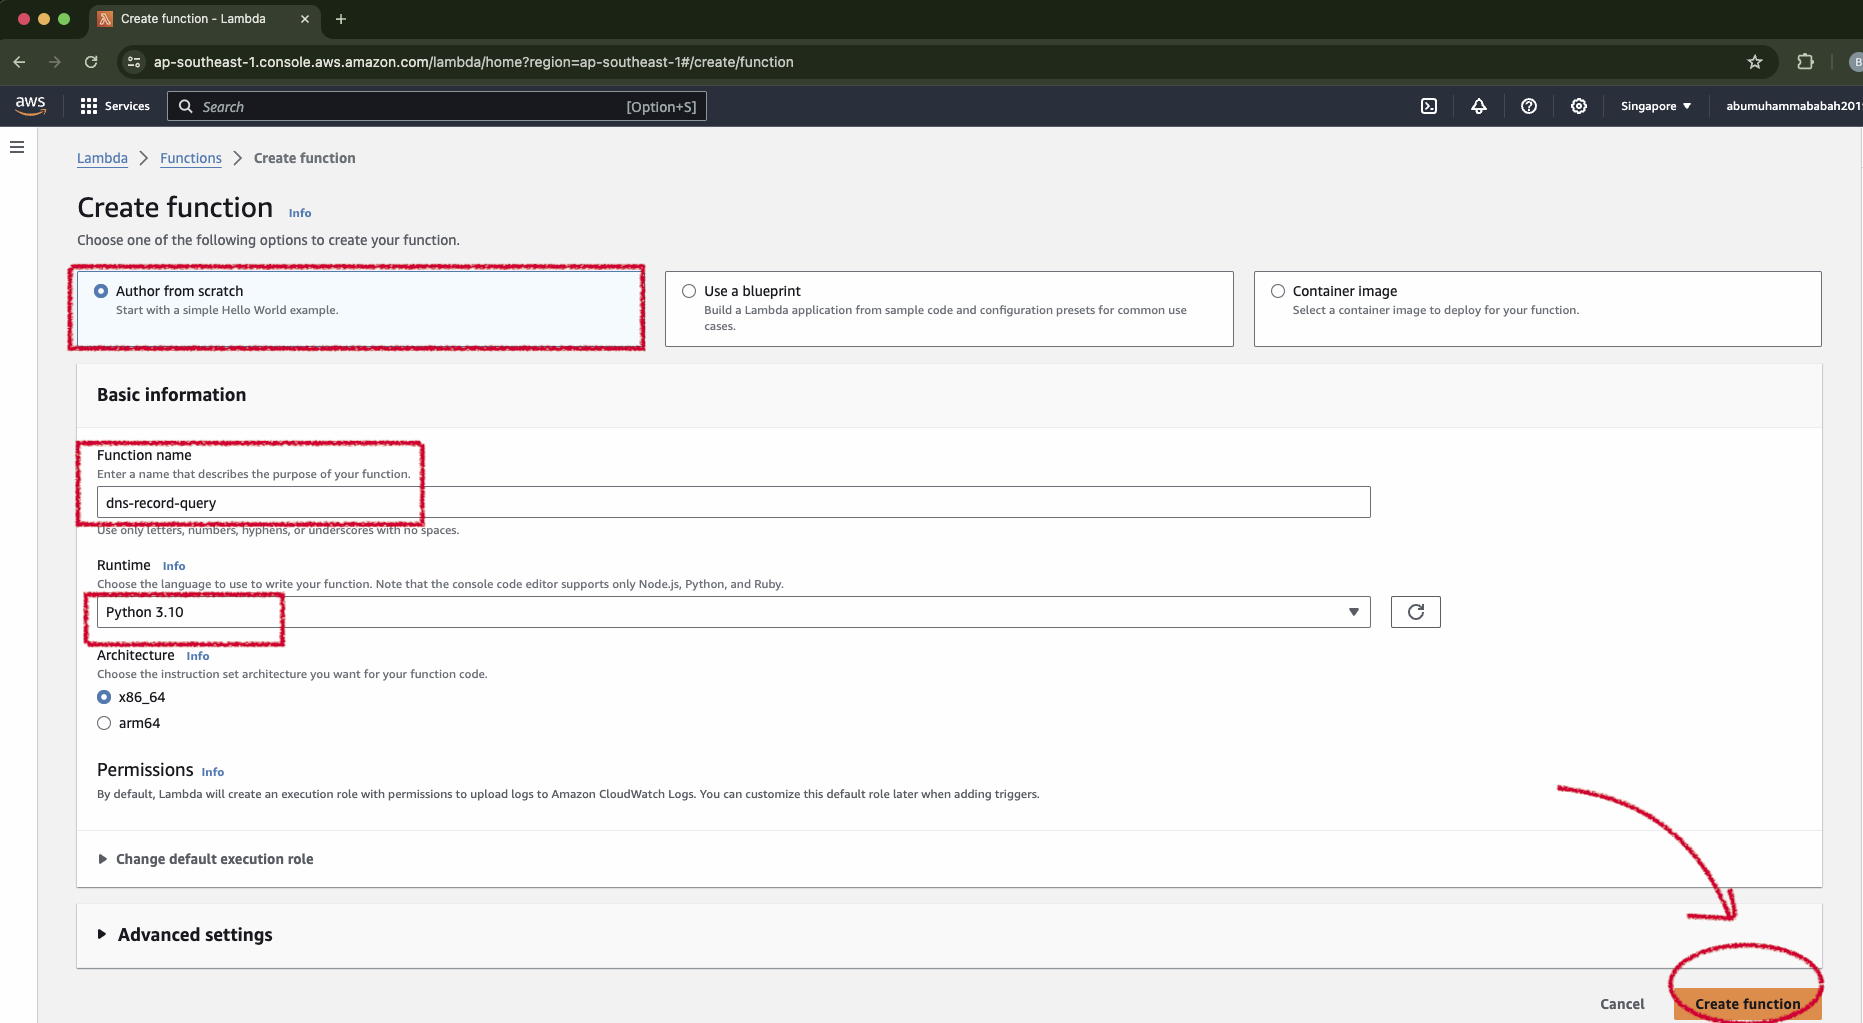
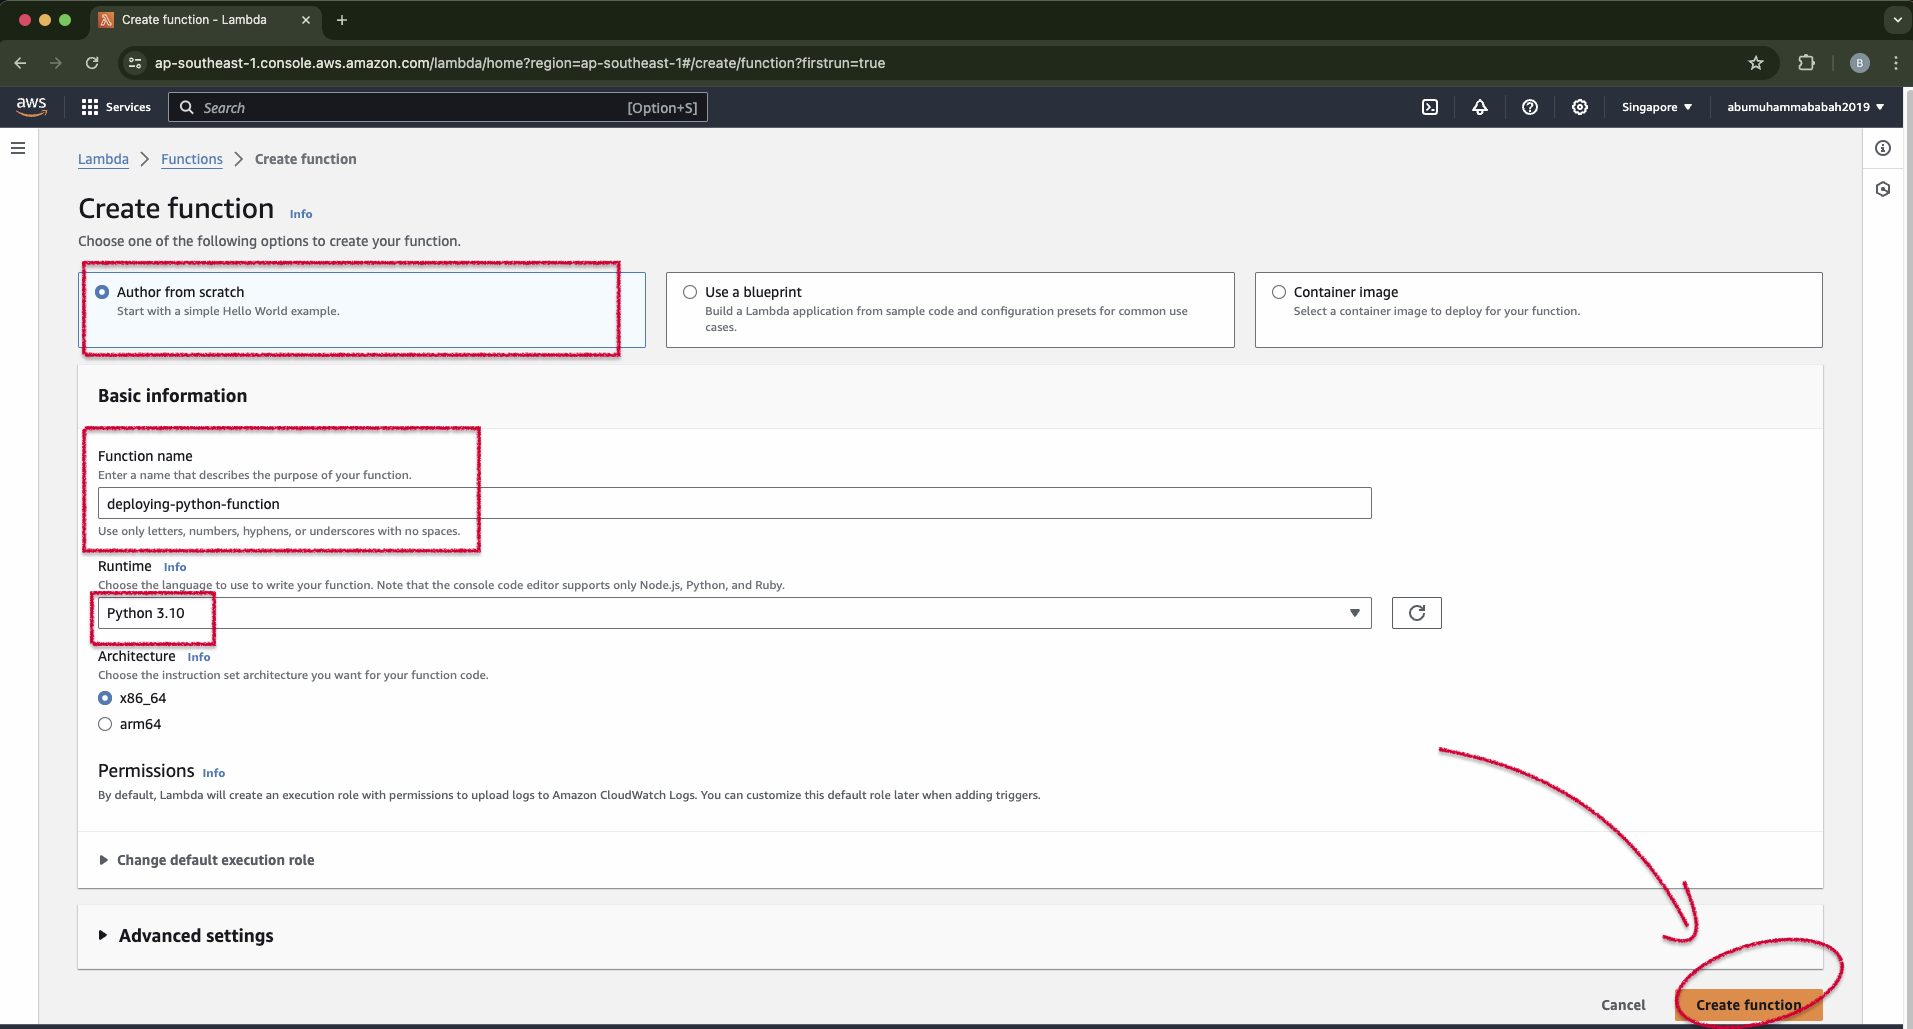
updates

diff --git a/README.md b/README.md
@@ -21,7 +21,7 @@ Reference : <br />
 
 &nbsp;
 
-Endpoint source :
+Endpoint source (for `03-code-project-dns-record-query`):
 <pre>
     ❯ curl -X 'GET' \
     'https://us-central1-zeta-structure-296509.cloudfunctions.net/dns-record-query?record_name=detik.com&record_type=A' \
@@ -55,6 +55,10 @@ Endpoint source :
 
 &nbsp;
 
+<div align="center">
+    <img src="./gambar-petunjuk/ss_004_aws_lambda_triggers.png" alt="ss_004_aws_lambda_triggers" style="display: block; margin: 0 auto;">
+</div> 
+
 &nbsp;
 
 ---
@@ -70,40 +74,52 @@ Environment :
 
 &nbsp;
 
-Begin : 
-<pre>
-    ❯ mkdir dns-record-query
+&nbsp;
 
-    ❯ cd dns-record-query
+### Begin :
+**Deployment package with no dependency**<br />
+
+<pre>
+    ❯ mkdir 01-code-project-basic
+
+    ❯ cd 01-code-project-basic
 
     ❯ touch lambda_function.py
 </pre>
 
-&nbsp;
+&#x1F680; Code :
 
 <pre>
-    ❯ python3 -m venv .venv
+    ❯ vim lambda_function.py
 
-    ❯ source .venv/bin/activate
 
-    ❯ pip install request
 
-    ❯ pip list
+        import json
 
-        Package            Version
-        ------------------ --------
-        certifi            2024.2.2
-        charset-normalizer 3.3.2
-        idna               3.7
-        pip                22.0.4
-        requests           2.31.0
-        setuptools         58.1.0
-        urllib3            2.2.1    
+        def lambda_handler(event, context):
+            # TODO implement
+            return {
+                'statusCode': 200,
+                'body': json.dumps('Hello from zipped file in Lambda!')
+            }
 </pre>
+
+---
 
 &nbsp;
 
-**&#x1F680; Code :**
+**Deployment package with dependency**<br />
+
+&nbsp;
+
+&nbsp;
+
+**Deployment package while using virtualenv**<br />
+
+&nbsp;
+
+---
+
 <pre>
     ❯ vim lambda_function.py
 
